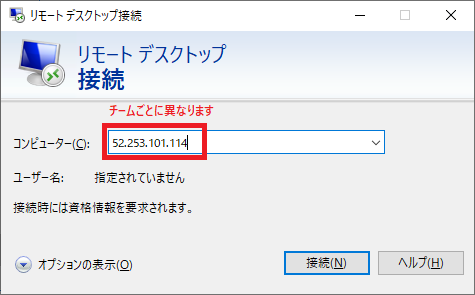
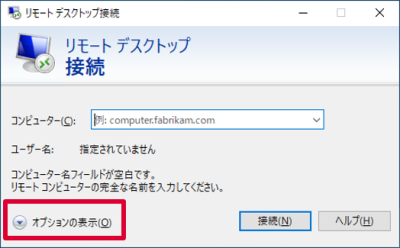
手順の記述修正

diff --git a/doc/connection/connection.md b/doc/connection/connection.md
@@ -1,46 +1,109 @@
 # 接続手順書
 - [接続手順書](#接続手順書)
   - [開発用PCへ接続する](#開発用pcへ接続する)
+    - [証明書を設定する(windows)](#証明書を設定するwindows)
+    - [リモートデスクトップする(windows)](#リモートデスクトップするwindows)
+    - [証明書を設定する(mac)](#証明書を設定するmac)
+    - [リモートデスクトップする(mac)](#リモートデスクトップするmac)
   - [アドインの開発を始める](#アドインの開発を始める)
 
 ## 開発用PCへ接続する
 <details>
 <summary>Windowsの人</summary>
 
+### 証明書を設定する(windows)
+* デンソークリエイト内にある開発用PCにアクセスするための証明書を皆さんのPCに登録します。
+
+1. 証明書をダウンロードします。  
+   __※証明書のダウンロードURLはZoomのチャットで連絡します。__
+1. ダウンロードしたファイルをダブルクリックして開きます。すると証明書の内容が表示されます。  
+   「証明書のインストール」をクリックします。  
+  ![証明書1](img/cert1.png)  
+1. 「次へ」をクリックします。  
+  ![証明書2](img/cert2.png)
+1. 「証明書をすべて次のストアに配置する」を選択し、「参照」をクリックします。  
+  ![証明書3](img/cert3.png)
+1. 「信頼されたルート証明機関」を選択し、「OK」をクリックします。  
+  ![証明書4](img/cert4.png)
+1. 「次へ」をクリックします。  
+  ![証明書5](img/cert5.png)
+1. 「完了」をクリックします。  
+  ![証明書6](img/cert6.png)
+1. 「OK」をクリックします。  
+  ![証明書7](img/cert7.png)
+  ![証明書8](img/cert8.png)
+
+### リモートデスクトップする(windows)
+
+1. 画面を共有しながら進めましょう。  
+    接続に詰まった場合に画面を見せながら相談できます。
+
 1. スタートメニューを開き、「リモートデスクトップ接続」と検索して開いてください。  
   ![リモートデスクトップ接続](img/remote.png)
 
 1. チームごとに、決められたコンピュータに対して接続します。  
-  「コンピューター」に以下アドレスを記入して「接続」を押します。  
-  ![リモートデスクトップ接続2](img/remote2.png)  
-  __※接続先アドレスはZoomのチャットで連絡します。__
-    |チーム|コンピューター|
+  まず、接続に必要な RD ゲートウェイ を設定します。  
+  「オプションの表示」をクリックします。  
+  ![リモートデスクトップ接続2](img/remote2.png)
+
+1. 「詳細設定」の「任意の場所から接続する」の枠の「設定」をクリックします。  
+   ![リモートデスクトップ接続2](img/remote3.png)
+
+1. 「次の RD ゲートウェイサーバー設定を使用する」にチェックを付け、  
+  「サーバー名」を以下の通り入力し、「OK」をクリックします。  
+    |項目|入力|
     |-|-|
-    |A|xx.xx.xx.xx|
-    |B|xx.xx.xx.xx|
-    |C|xx.xx.xx.xx|
-    |D|xx.xx.xx.xx|
-    |E|xx.xx.xx.xx|
+    |サーバー名|__※サーバー名(=ゲートウェイ名)はZoomのチャットで連絡します。__|  
+
+    ![リモートデスクトップ接続2](img/remote4.png)
+
+1. 「全般」に戻り、  
+  「コンピューター」と「ユーザー名」を以下の通り入力し、「接続」をクリックします。  
+    |項目|入力|
+    |-|-|
+    |コンピューター|__※コンピューター名(=開発PC名)はZoomのチャットで連絡します。<br/>チーム毎に異なるので注意__|
+    |ユーザー名|__※ユーザ名はZoomのチャットで連絡します。__|  
+
+    ![リモートデスクトップ接続2](img/remote5.png)
 
 1. 以下ユーザー名とパスワードを入力してOKします。  
-   自分のアカウント名がすでに入っている場合は、下のほうにある「その他」→「別のアカウントを使用する」を押してください。
-  ![リモートデスクトップ接続3](img/remote3.png)
-    |チーム|ユーザー名|パスワード|
-    |-|-|-|
-    |A|intern1|intern1#####|
-    |B|intern2|intern2#####|
-    |C|intern3|intern3#####|
-    |D|intern4|intern4#####|
-    |E|intern5|intern5#####|
+   もし自分のアカウント名がすでに入っている場合は、下のほうにある「その他」→「別のアカウントを使用する」を押してください。  
+    |項目|入力|
+    |-|-|
+    |ユーザー名|__※ユーザ名はZoomのチャットで連絡します。__|
+    |パスワード|__※パスワードはZoomのチャットで連絡します。__|  
 
-1. これで開発用PCにログインできました。  
-   ログイン出来たら、チームメンバに開発用PCの画面を共有して進めて行きましょう。
-2. 接続の練習はここまでです。  
-   リモートデスクトップを切断し、次の人に開発用PCに接続してもらいましょう。 
-   ![リモートデスクトップ接続4](img/remote4.png) 
+    ![リモートデスクトップ接続3](img/remote6.png)  
+    ![リモートデスクトップ接続3](img/remote6-2.png)  
+
+2. これで開発用PCにログインできました。  
+   接続の練習はここまでです。  
+   リモートデスクトップを切断し、次の人に開発用PCに接続してもらいましょう。  
+
+   ![リモートデスクトップ接続4](img/remote7.png)
+
 </details>
 <details>
 <summary>Macの人</summary>
+
+### 証明書を設定する(mac)
+* デンソークリエイト内にある開発用PCにアクセスするための証明書を皆さんのPCに登録します。
+
+1. 証明書をダウンロードします。  
+   __※証明書のダウンロードURLはZoomのチャットで連絡します。__
+1. ダウンロードしたファイルをダブルクリックして開きます。すると確認のダイアログが表示されるので、  
+    キーチェーンを「ログイン」にして「追加」をクリックします。  
+  ![証明書1](img/mac_cert1.png)  
+  もし以下のようなダイアログが出た場合は、  
+  各自のPCのログインユーザ名・パスワードを入力して「キーチェーンを変更」してください。  
+  ![証明書2](img/mac_cert2.png)
+1. 「キーチェーン」ウィンドウの「ログイン」（もしくは「システム」）内に、  
+    "DCLocalRootCA" が入っていれば完了です。  
+  ![証明書3](img/mac_cert3.png)
+
+### リモートデスクトップする(mac)
+1. 画面を共有しながら進めましょう。  
+    接続に詰まった場合に画面を見せながら相談できます。
 
 1. App Storeを開いて、「Microsoft Remote Desktop」で検索します。  
     出てきたアプリを「インストール」して、インストールが終わったら「開く」を押してください。  
@@ -49,44 +112,62 @@
 1. 最初に聞かれる内容は「Not now」を選択します。  
   ![Macリモートデスクトップ接続2](img/mac_remote2.png)
 
-1. 「Add PC」を押します。  
-  ![Macリモートデスクトップ接続3](img/mac_remote3.png)
+1. チームごとに、決められたコンピュータに対して接続するための設定をしていきます。  
+  最初に、「Add PC」を押します。  
+  ![Macリモートデスクトップ接続3](img/mac_remote_g0.png)
 
-1. チームごとに、決められたコンピュータに対して接続します。  
-  出てきた画面の「PC name」に以下を入れて、「Add」を押します。  
-  __※接続先アドレスはZoomのチャットで連絡します。__
-    |チーム|PC name|
+1. 接続に必要な"Gateway"を設定します。  
+   "Gateway"の欄を開き、「Add Gateway...」をクリックします。  
+  ![Macリモートデスクトップ接続](img/mac_remote_g1.png)
+
+1. GatewayにアクセスするUserを設定します。  
+   "User account"の欄を開き、「Add User Account...」をクリックします。  
+  ![Macリモートデスクトップ接続](img/mac_remote_g2.png)
+
+1. UsernameとPassword、Friendly nameを以下の通り入力し、  
+   「Add」をクリックします。  
+    |項目|入力|
     |-|-|
-    |A|xx.xx.xx.xx|
-    |B|xx.xx.xx.xx|
-    |C|xx.xx.xx.xx|
-    |D|xx.xx.xx.xx|
-    |E|xx.xx.xx.xx|
+    |Username|__※Username(=ユーザ名)はZoomのチャットで連絡します。__|
+    |Password|__※Password(=パスワード)はZoomのチャットで連絡します。__|
+    |Friendly name|dc intern|  
 
-    ![Macリモートデスクトップ接続4](img/mac_remote4.png)
+    ![Macリモートデスクトップ接続](img/mac_remote_g3.png)
+
+1. Gatewayのダイアログに戻るので、それぞれ以下の通り入力し、  
+   「Add」をクリックします。  
+
+    |項目|入力|
+    |-|-|
+    |Gateway name|__※Gateway name(=ゲートウェイ名)はZoomのチャットで連絡します。__|
+    |Friendly name|dc intern|
+    |User account|dc intern|
+
+    ![Macリモートデスクトップ接続](img/mac_remote_g4.png)
+
+1. Add PCのダイアログに戻るので、それぞれ以下の通り入力し、  
+   「Add」をクリックします。  
+
+    |項目|入力|
+    |-|-|
+    |PC name|__※PC name(=開発PC名)はZoomのチャットで連絡します。<br />チーム毎に異なるので注意__|
+    |User account|dc intern|
+    |Friendly name|dc intern|
+    |Gateway|dc intern|
+
+    ![Macリモートデスクトップ接続](img/mac_remote_g5.png)
 
 1. 作成されたボタンをダブルクリックします。  
-  ![Macリモートデスクトップ接続5](img/mac_remote5.png)
-
-1. ユーザー名とパスワードに以下を入れて「Continue」を押します。
-    |チーム|Username|Password|
-    |-|-|-|
-    |A|intern1|intern1#####|
-    |B|intern2|intern2#####|
-    |C|intern3|intern3#####|
-    |D|intern4|intern4#####|
-    |E|intern5|intern5#####|  
-
-    ![Macリモートデスクトップ接続6](img/mac_remote6.png)
+  ![Macリモートデスクトップ接続](img/mac_remote_g6.png)
 
 1. 以下のようなメッセージが出た場合、「Continue」を押します。  
-  ![Macリモートデスクトップ接続7](img/mac_remote7.png)
+  ![Macリモートデスクトップ接続](img/mac_remote_g7.png)  
+  ![Macリモートデスクトップ接続](img/mac_remote_g8.png)
 
 1. これで開発用PCにログインできました。  
-   ログイン出来たら、チームメンバに開発用PCの画面を共有して進めて行きましょう。
-2. 接続の練習はここまでです。  
-   リモートデスクトップを切断(スタートメニュー→電源→切断)し、次の人に開発用PCに接続してもらいましょう。 
-   ![Macリモートデスクトップ接続8](img/mac_remote8.png) 
+   接続の練習はここまでです。  
+   リモートデスクトップを切断し、次の人に開発用PCに接続してもらいましょう。  
+  ![Macリモートデスクトップ接続](img/mac_remote_g9.png)
 </details>
 
 ## アドインの開発を始める
@@ -104,4 +185,4 @@
 
 * (参考)開発用PCには以下ツールが入っています。
   * Office 2016
-  * Visual Studio 2019 Community
+  * Visual Studio 2012
